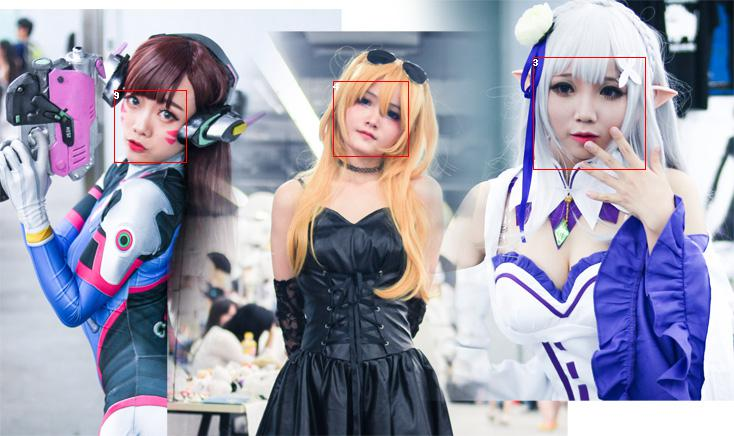
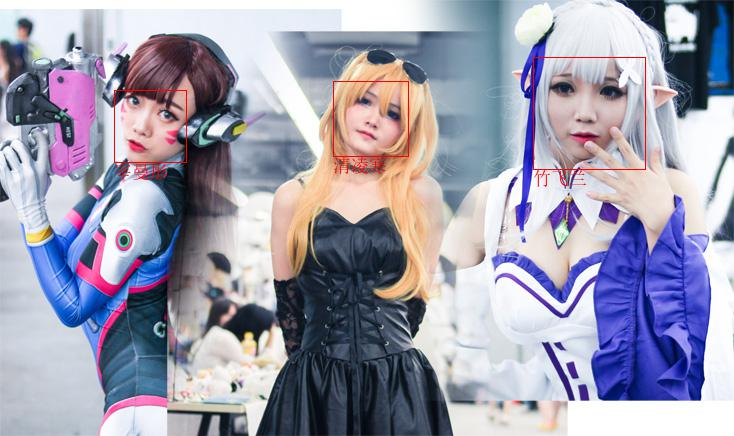
名字映射，查信息API

diff --git a/yunconglib.py b/yunconglib.py
@@ -5,14 +5,15 @@ import urllib.parse
 import json
 import base64
 import os
-from PIL import Image, ImageDraw
+from PIL import Image, ImageDraw, ImageFont
 from aip import AipSpeech
+import myserverlib
 
 BASE_URL = 'http://120.25.161.56:8000'
 REQUEST_HEADERS = {
         'User-Agent': 'Mozilla/5.0 (X11; Linux x86_64) AppleWebKit/537.36 (KHTML, like Gecko) Chrome/41.0.2272.89 Safari/537.36'
     }
-
+NAME_DATA_FILE = 'name_data.json'
 
 # ***************** BaiDu Ai API *******************
 
@@ -51,17 +52,39 @@ def face_create(groupId, img_bin, people_name):
     url = BASE_URL+'/face/clustering/face/create'
     values = {
         'groupId': groupId,
-        'tag': base64.b64encode(people_name.encode('utf-8')),
+        'tag': 'fuck',
         'img': base64.b64encode(img_bin)
     }
     data = urllib.parse.urlencode(values).encode('utf-8')
     request = urllib.request.Request(url, data, REQUEST_HEADERS)
     result = urllib.request.urlopen(request).read().decode('utf-8')
     payload = json.loads(result)
+    print(payload)
     if payload['result'] == 0:
+        _save_name(payload['faceId'], people_name)
         return True, payload['faceId']
     else:
         return False, -1
+
+
+def _save_name(yuncong_id, name):
+    fp = open(NAME_DATA_FILE, 'r', encoding='utf-8')
+    data = json.load(fp)
+    fp.close()
+
+    data[yuncong_id] = name
+
+    fp = open(NAME_DATA_FILE, 'w', encoding='utf-8')
+    json.dump(data, fp)
+    fp.close()
+
+
+def _get_name(yuncong_id):
+    fp = open(NAME_DATA_FILE, 'r', encoding='utf-8')
+    data = json.load(fp)
+    fp.close()
+
+    return data[yuncong_id]
 
 
 # 传入一个文件夹，里面只能有人脸图片，文件名即作为人名
@@ -90,11 +113,11 @@ def face_identify(groupId, img_bin):
     result = urllib.request.urlopen(request).read().decode('utf-8')
     payload = json.loads(result)
     if payload['result'] == 0:
-        people_name = payload['faces'][0]['tag']
-        people_name = base64.b64decode(people_name).decode('utf-8')
+        people_name = _get_name(payload['faces'][0]['faceId'])
         return True, people_name
     else:
         return False, ''
+
 
 def multi_face_identify(groupId, img_path):
     img_fd = open(img_path, 'rb')
@@ -110,16 +133,17 @@ def multi_face_identify(groupId, img_path):
     request = urllib.request.Request(url, data, REQUEST_HEADERS)
     result = urllib.request.urlopen(request).read().decode('utf-8')
     payload = json.loads(result)
-    print(payload)
     if payload['result'] == 0:
         im = Image.open(img_path)
         draw = ImageDraw.Draw(im)
+        draw.ink = 0x0000ff
+        font = ImageFont.truetype('simsun.ttc', 18, encoding='utf-8')
         for face in payload['faces']:
-            # name = base64.b64decode(face['tag']).decode('utf-8')
-            name = face['faceId']
+            name = _get_name(face['faceId'])
+            name = myserverlib.get_info_by_id(name)['name']
             x, y, w, h = face['x'], face['y'], face['width'], face['height']
-            draw.rectangle((x, y, x+w, y+h), outline='red', width=5)
-            draw.text((x, y), name)
+            draw.rectangle((x, y, x+w, y+h), outline='red')
+            draw.text((x, y+h), name, font=font)
         im.save('multi_face_identify_result.jpg')
         return True, 'multi_face_identify_result.jpg'
     else:
@@ -149,6 +173,6 @@ if __name__ == '__main__':
     # test_img3 = open('test/3_i.jpg', 'rb').read()
     # print('test 3_i:', face_identify(group, test_img3))
 
-    # multi_face_identify(group, 'test/multi_face_identify_test.jpg')
+    multi_face_identify(group, 'test/multi_face_identify_test.jpg')
 
-    print(tts('好像做爱做的事情啊~！'))
+    # print(tts('好像做爱做的事情啊~！'))

diff --git a/ManagementSystem/main.py b/ManagementSystem/main.py
@@ -4,6 +4,7 @@ import shutil
 import time
 import uuid
 import re
+import yunconglib
 
 from flask import Flask, render_template, request, url_for, flash, redirect, send_file, abort, jsonify
 
@@ -49,15 +50,16 @@ def index():
 @app.route('/get_info', methods=['GET'])
 def get_info():
     _id = request.args.get('id', "")
+    print(_id)
     if _id == "":
-        return jsonify([])
+        return jsonify({})
     _id = int(_id)
 
     data = getdata()
     for p in data['people']:
         if p['id'] == _id:
             return jsonify(p)
-    return jsonify([])
+    return jsonify({})
 
 
 @app.route('/set_info', methods=['POST'])

diff --git a/myserverlib.py b/myserverlib.py
@@ -1,0 +1,17 @@
+# -*- conding:utf-8 -*-
+
+import urllib.request
+import urllib.parse
+import json
+
+BASE_URL = 'http://localhost:5000'
+REQUEST_HEADERS = {
+        'User-Agent': 'Mozilla/5.0 (X11; Linux x86_64) AppleWebKit/537.36 (KHTML, like Gecko) Chrome/41.0.2272.89 Safari/537.36'
+    }
+
+def get_info_by_id(_id):
+    url = BASE_URL + '/get_info?id=' + str(_id)
+    request = urllib.request.Request(url, headers=REQUEST_HEADERS, method='GET')
+    result = urllib.request.urlopen(request).read().decode('utf-8')
+    payload = json.loads(result)
+    return payload
